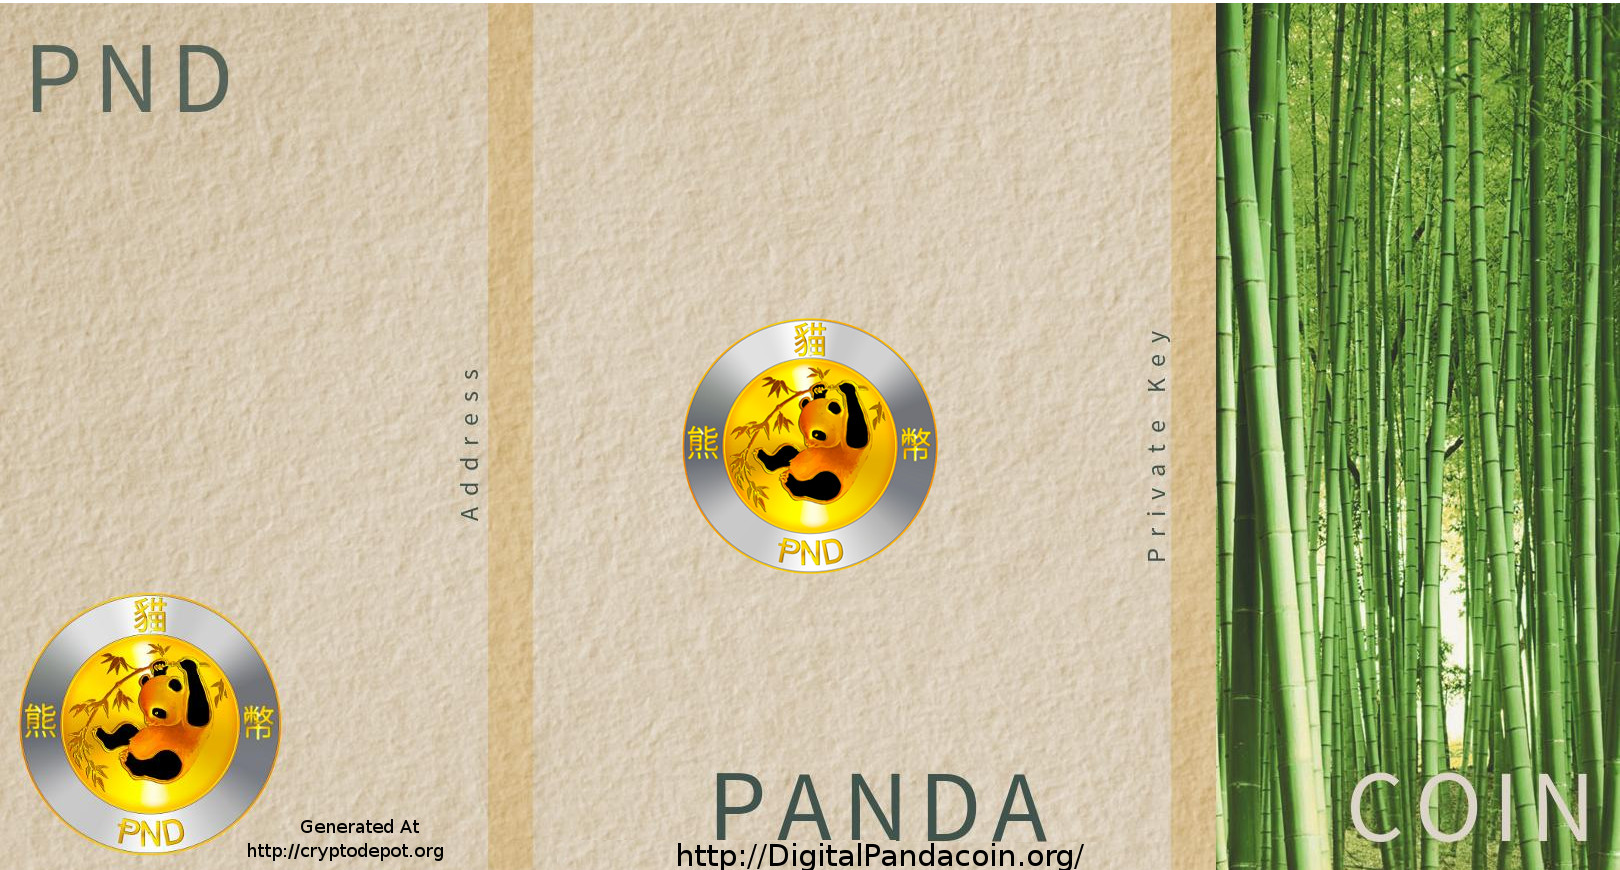
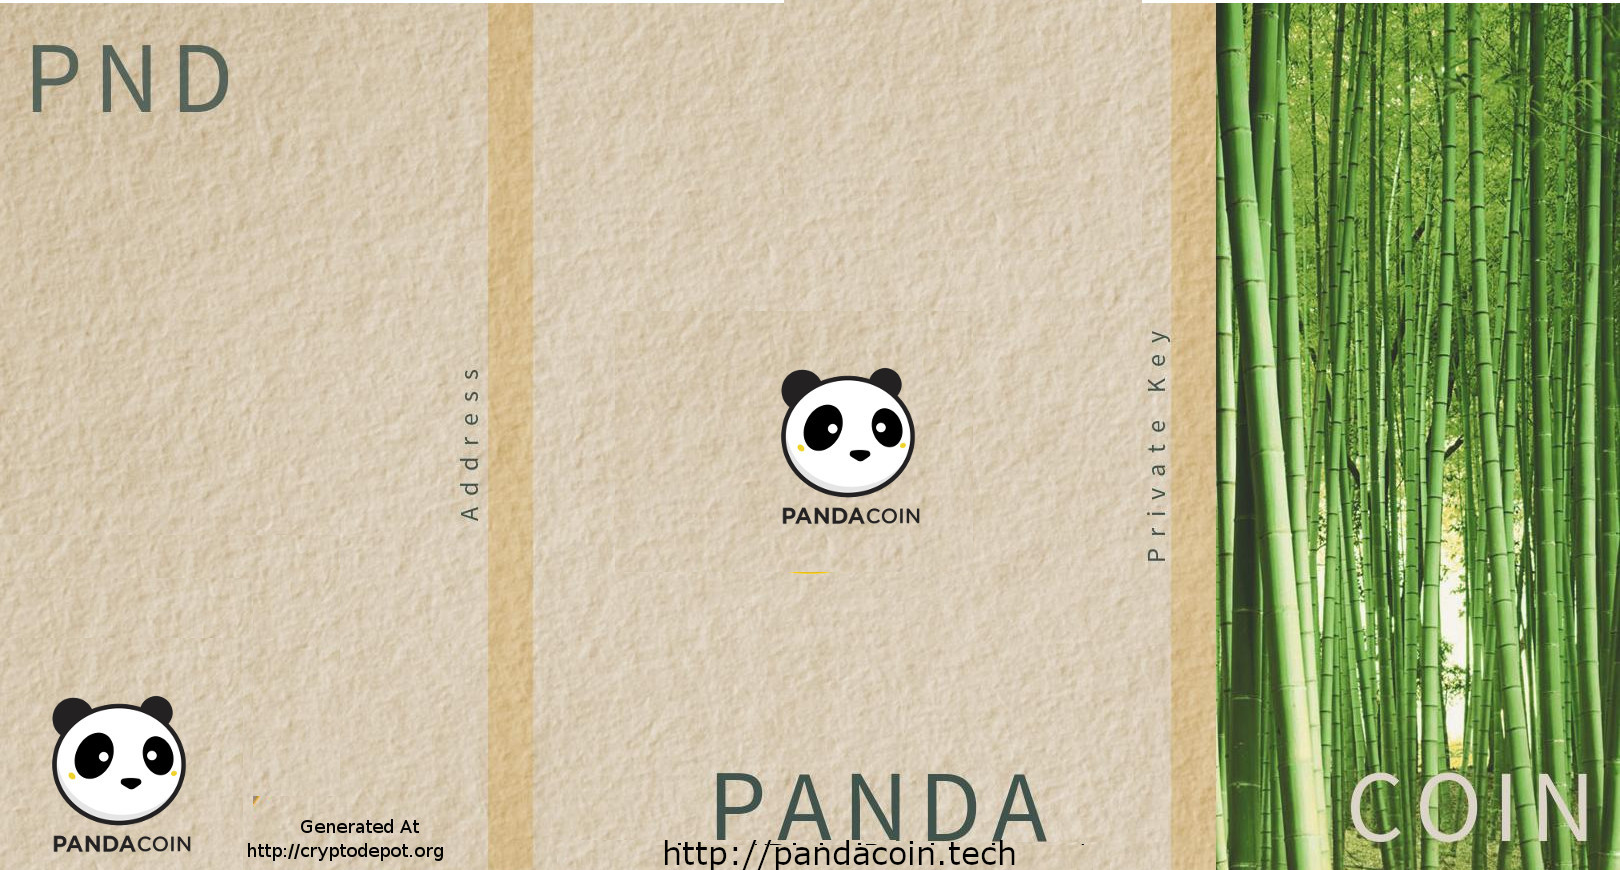
update
url change

diff --git a/pandacoin/index.html b/pandacoin/index.html
@@ -2,6 +2,8 @@
 <html>
 <head>
 <script type="text/javascript" src="/static/js/analytics.js"></script>
+	<link rel="shortcut icon" href="pandacoin.ico">
+
 	<!--
 	Donation Address: 1NiNja1bUmhSoTXozBRBEtR8LeF9TGbZBN
 
@@ -5978,7 +5980,7 @@ body { font-family: Arial; }
 			<span><a href="?culture=de" id="culturede">Deutsch</a></span> |
 			<span><a href="?culture=cs" id="culturecs">Česky</a></span>
 		</div><br>
-		<img alt="" title="" id="http://cryptodepot.org/paperwallet/pandacoin/logo" src="http://cryptodepot.org/paperwallet/pandacoin/logo.png" />
+		<img alt="" title="" id="http://cryptodepot.org/paperwallet/pandacoin/logo" src="http://cryptodepot.org/wp-content/uploads/2016/11/NewLogoPlain-300x300.jpg" />
 		<div id="tagline">CryptoDepot JavaScript PandaCoin Paper Wallet Generator</div>
 		<div id="seedpoolarea"><textarea rows="16" cols="62" id="seedpool"></textarea></div>
 		<div id="testnet"></div>
@@ -6033,8 +6035,8 @@ body { font-family: Arial; }
 					<p id="singletip1"><b>A PandaCoin paper wallet</b> is as simple as a single pairing of a PandaCoin address with its corresponding PandaCoin private key. Such a wallet has been generated for you in your web browser and is displayed above.</p>
 					<p id="singletip2"><b>To safeguard this wallet</b> you must print or otherwise record the PandaCoin address and private key. It is important to make a backup copy of the private key and store it in a safe location. This site does not have knowledge of your private key. If you leave/refresh the site or press the "Generate New Address" button then a new private key will be generated and the previously displayed private key will not be retrievable.	Your PandaCoin private key should be kept a secret. Whomever you share the private key with has access to spend all the PandaCoins associated with that address. If you print your wallet then store it in a zip lock bag to keep it safe from water. Treat a paper wallet like cash.</p>
 					<p id="singletip3"><b>Add funds</b> to this wallet by instructing others to send PandaCoins to your PandaCoin address.</p>
-					<p id="singletip4"><b>Check your balance</b> by going to chainz.cryptoid.info/pnd/and entering your PandaCoin address.</p>
-					<p id="singletip5"><b>Spend your PandaCoins</b> by downloading one of the popular PandaCoin p2p clients found <a href="https://github.com/pandacoin-official/binaries" target="_blank">Here</a> for Win/Mac/Linux or <a href="https://github.com/pandacoin-official/pandacoin" target="_blank">Here</a> to compile from source. Run the wallet and then import your private key into the p2p client. Keep in mind when you import your single key to a PandaCoin p2p client and spend funds your key will be bundled with other private keys in the p2p client wallet. When you perform a transaction your change will be sent to another PandaCoin address within the p2p client wallet. You must then backup the p2p client wallet and keep it safe as your remaining PandaCoins will be stored there. Satoshi advised that one should <b>never</b> delete a wallet.</p>
+					<p id="singletip4"><b>Check your balance</b> by going to <a href="http://chainz.cryptoid.info/pnd/" target="_BLANK">Here</a> and entering your PandaCoin address.</p>
+					<p id="singletip5"><b>Spend your PandaCoins</b> by downloading one of the popular PandaCoin p2p clients found <a href="http://dev.digitalpandacoin.org/index.php/download-2/" target="_blank">Here</a> or <a href="http://cryptodepot.org/downloads/" target="_BLANK">Here on CryptoDepot</a> for Win/Mac/Linux or <a href="https://github.com/digitalpandacoin/pandacoin" target="_blank">Here on Github</a> to compile from source. Run the wallet and then import your private key into the p2p client. Keep in mind when you import your single key to a PandaCoin p2p client and spend funds your key will be bundled with other private keys in the p2p client wallet. When you perform a transaction your change will be sent to another PandaCoin address within the p2p client wallet. You must then backup the p2p client wallet and keep it safe as your remaining PandaCoins will be stored there. Satoshi advised that one should <b>never</b> delete a wallet.</p>
 				</div>
 			</div>
 
@@ -6281,7 +6283,8 @@ body { font-family: Arial; }
 			<div class="authorbtc">
 				<div>
 					<span class="item"><span id="footerlabeldonations">Donations:</span><br>
-					<A href="http://dev.digitalpandacoin.org">Pandacoin Website</a>  - <A href="http://www.cryptodepot.org/">CryptoDepot</a>
+					<A href="https://pandacoin.tech" target="_BLANK">Pandacoin Website</a>  - <A href="http://www.cryptodepot.org/" target="_BLANK">CryptoDepot</a><br>
+					Development Fund: <a href="pandacoin:PQxsrHk9Q5VrCW3m6AsHYP1E3wW4MRNCux" target="_BLANK">PQxsrHk9Q5VrCW3m6AsHYP1E3wW4MRNCux</a>
 					<div class="siteseal"><span id="cdSiteSeal1"><script type="text/javascript" src="http://tracedseals.starfieldtech.com/siteseal/get?scriptId=cdSiteSeal1&amp;cdSealType=Seal1&amp;sealId=55e4ye7y7mb7339cd928d679e3425bavh7y7mb7355e4ye734a4a7978d612d8b8"></script></span></span></div>
 
 					<span class="item" id="footerlabeltranslatedby"></span>
